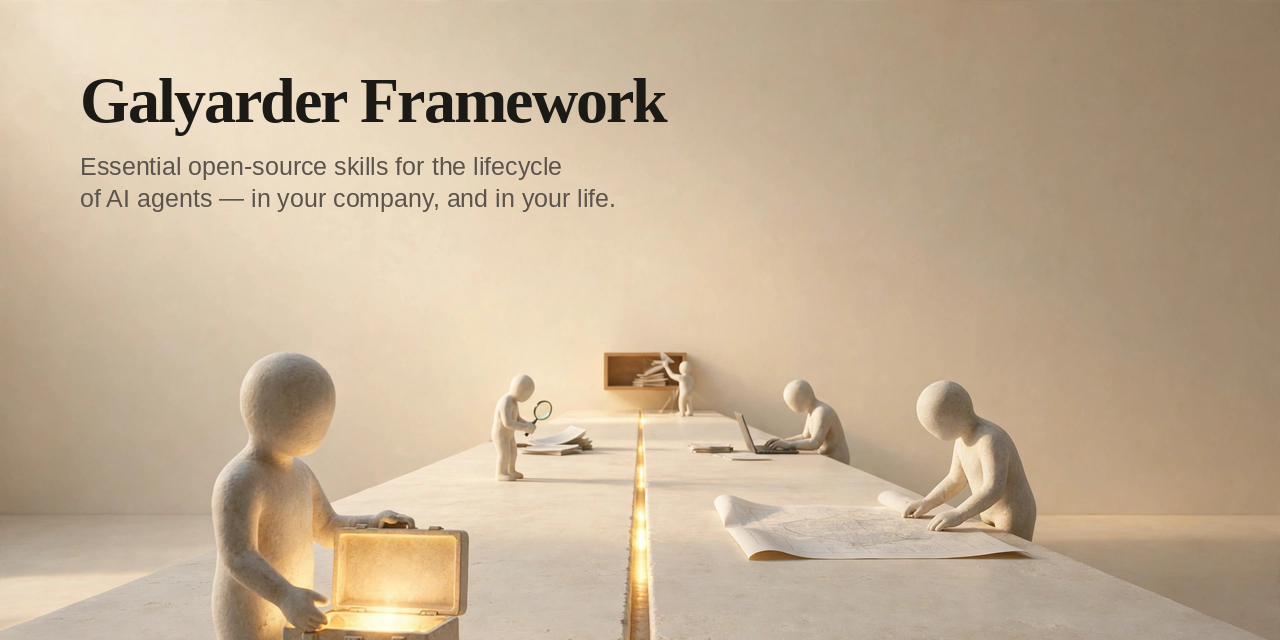
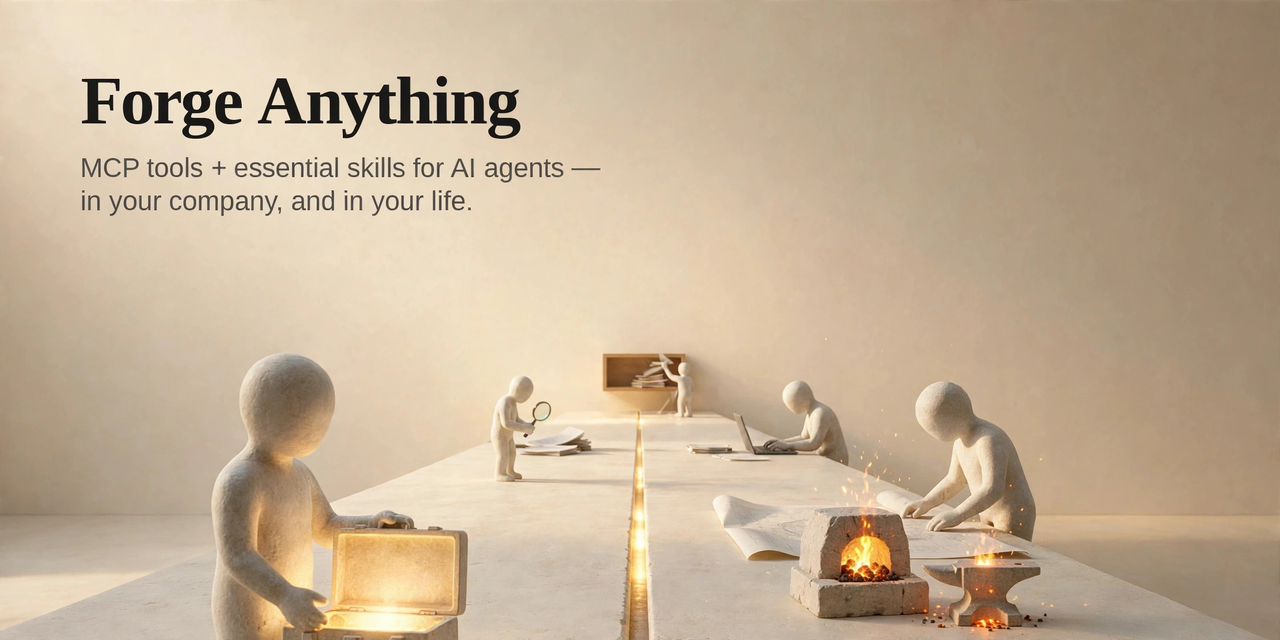
Rebrand: Galyarder Framework -> Forge Anything
README, banner, repo manifests and docs config now carry the Forge
Anything name and positioning (MCP tools + essential skills for AI
agents). Marketplace plugin name and smoke-test check updated to
@galyarderlabs/forge-anything. Repo renamed on GitHub to
galyarderlabs/forge-anything; description and topics updated there.

diff --git a/README.md b/README.md
@@ -1,17 +1,17 @@
 <div align="center">
 
-![Galyarder Framework](docs/assets/social-preview.png)
+![Forge Anything](docs/assets/social-preview.png)
 
-Essential skills for the full lifecycle of an AI agent, in one place — from goal to shipped.
+MCP tools + essential skills for AI agents to forge anything — in your company, and in your life.
 
 [![npm version](https://img.shields.io/npm/v/galyarder-framework.svg)](https://www.npmjs.com/package/galyarder-framework)
 [![License: MIT](https://img.shields.io/badge/license-MIT-blue.svg)](LICENSE)
-[![GitHub stars](https://img.shields.io/github/stars/galyarderlabs/galyarder-framework.svg)](https://github.com/galyarderlabs/galyarder-framework)
-[![Smoke test](https://github.com/galyarderlabs/galyarder-framework/actions/workflows/smoke-test.yml/badge.svg)](https://github.com/galyarderlabs/galyarder-framework/actions/workflows/smoke-test.yml)
+[![GitHub stars](https://img.shields.io/github/stars/galyarderlabs/forge-anything.svg)](https://github.com/galyarderlabs/forge-anything)
+[![Smoke test](https://github.com/galyarderlabs/forge-anything/actions/workflows/smoke-test.yml/badge.svg)](https://github.com/galyarderlabs/forge-anything/actions/workflows/smoke-test.yml)
 ![Node.js 20+](https://img.shields.io/badge/Node.js-20%2B-green.svg)
 [![Sponsor](https://img.shields.io/badge/sponsor-support-ff69b4?logo=githubsponsors)](https://github.com/sponsors/galyarderlabs)
 
-Using an AI agent shouldn't be just generating code, and the agent shouldn't be confused. It is not a kanban board, a prompt pack, or another AI agent. This is the right way to work: rules and a workflow, simple as that. The best skills, unified in one place — in your company, and in your life.
+Using an AI agent shouldn't be just generating code, and the agent shouldn't be confused. Forge Anything gives the agent tools that do the work — write code, run commands, generate images and video — plus the essential skills for how to use them, and a scaffold that starts a tidy repo. Even a regular chatbot can add the MCP and forge anything. It is not a kanban board, a prompt pack, or another AI agent. This is the right way to work: rules and a workflow, simple as that. The best tools and skills, unified in one place — in your company, and in your life.
 
 </div>
 
@@ -41,7 +41,7 @@ npm install -g galyarder-framework
 Or pull just the skills you need:
 
 ```sh
-npx skills add galyarderlabs/galyarder-framework --skill full
+npx skills add galyarderlabs/forge-anything --skill full
 ```
 
 Step by step, including local install and other tools, is in [docs/QUICK_START.md](docs/QUICK_START.md).
@@ -70,11 +70,11 @@ problems privately as described in [SECURITY.md](SECURITY.md).
 
 ## Support
 
-Galyarder Framework is free and always will be. If it makes your agents work the right way, you can [sponsor Galyarder Labs on GitHub](https://github.com/sponsors/galyarderlabs). A star, a bug report or telling a friend helps just as much.
+Forge Anything is free and always will be. If it makes your agents work the right way, you can [sponsor Galyarder Labs on GitHub](https://github.com/sponsors/galyarderlabs). A star, a bug report or telling a friend helps just as much.
 
 ## Star History
 
-[![Star History Chart](https://api.star-history.com/svg?repos=galyarderlabs/galyarder-framework&type=Date)](https://star-history.com/#galyarderlabs/galyarder-framework&Date)
+[![Star History Chart](https://api.star-history.com/svg?repos=galyarderlabs/forge-anything&type=Date)](https://star-history.com/#galyarderlabs/forge-anything&Date)
 
 ## License
 
@@ -84,6 +84,6 @@ MIT. See [LICENSE](LICENSE).
 
 <div align="center">
 
-[![Give Galyarder Framework a star](https://img.shields.io/github/stars/galyarderlabs/galyarder-framework?style=social)](https://github.com/galyarderlabs/galyarder-framework)
+[![Give Forge Anything a star](https://img.shields.io/github/stars/galyarderlabs/forge-anything?style=social)](https://github.com/galyarderlabs/forge-anything)
 
 </div>
